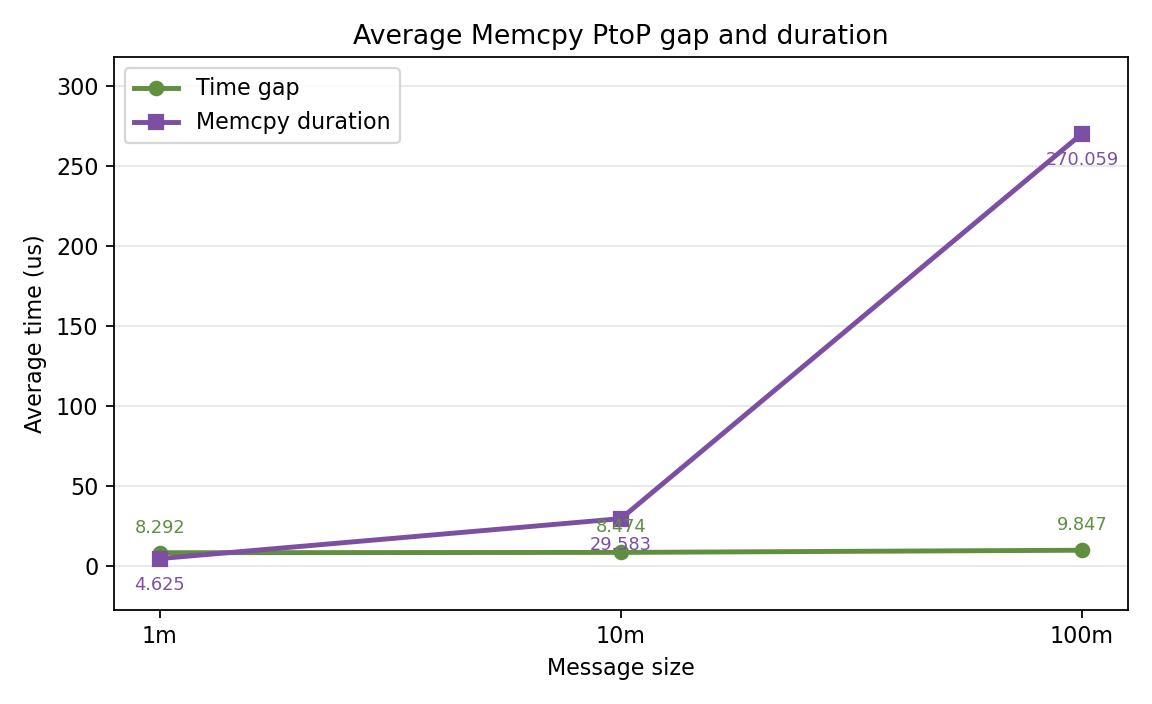
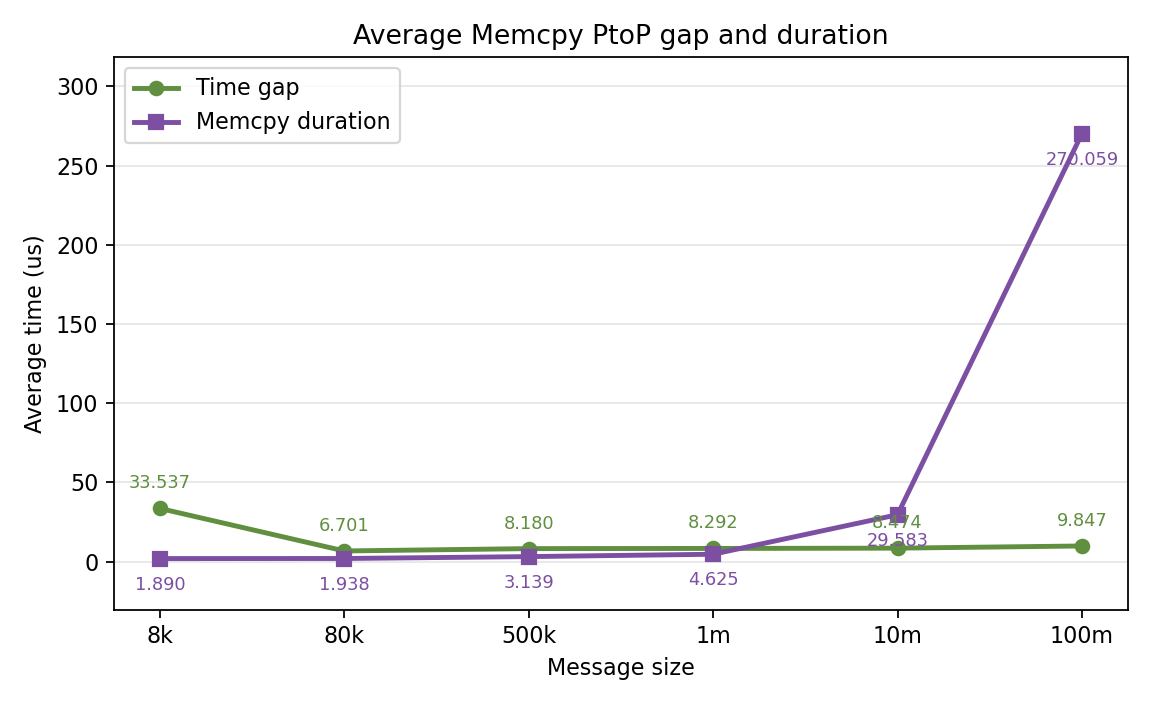
include the results with message sizes 8k, 80k, and 500k

diff --git a/Copy_Engine/Results/nvlink_copy_engine_test/plot_nvlink_copy_engine_summary.py b/Copy_Engine/Results/nvlink_copy_engine_test/plot_nvlink_copy_engine_summary.py
@@ -1,5 +1,5 @@
 #!/usr/bin/env python3
-"""Plot copy-engine summary graphs for the 1m, 10m, and 100m reports."""
+"""Plot copy-engine summary graphs for the available message-size reports."""
 
 from __future__ import annotations
 
@@ -26,6 +26,9 @@ import analyze_nvlink_copy_engine_report as analyzer
 
 SCRIPT_DIR = Path(__file__).resolve().parent
 DEFAULT_SQLITES = [
+    SCRIPT_DIR / "1*8k.sqlite",
+    SCRIPT_DIR / "1*80k.sqlite",
+    SCRIPT_DIR / "1*500k.sqlite",
     SCRIPT_DIR / "1*1m.sqlite",
     SCRIPT_DIR / "1*10m.sqlite",
     SCRIPT_DIR / "1*100m.sqlite",
@@ -44,7 +47,10 @@ def parse_args() -> argparse.Namespace:
         nargs="*",
         type=Path,
         default=DEFAULT_SQLITES,
-        help="SQLite files to plot. Defaults to ./1*1m.sqlite ./1*10m.sqlite ./1*100m.sqlite.",
+        help=(
+            "SQLite files to plot. Defaults to ./1*8k.sqlite ./1*80k.sqlite "
+            "./1*500k.sqlite ./1*1m.sqlite ./1*10m.sqlite ./1*100m.sqlite."
+        ),
     )
     parser.add_argument(
         "--gpu-bus-id",